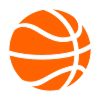
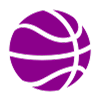
codigo corrigido e a pagina binario existe também

diff --git a/sptechers-machine v1.html b/sptechers-machine v1.html
@@ -17,16 +17,16 @@
         <div id="div_inputs">
             <span><h1 id="h1_titulo">DECIMAL</h1><img src="01.png" alt=""></span>
             <div id="div_inputs_box">
-                <label for="demo1">Digite um número decimal</label>
+                <label for="demo1" id="textoCima">Digite um número decimal</label>
                 <div id="button_check">
                     <input type="number" id="demo1">
                     <button id="btn_enviar" onclick="converterDecimal()">></button>
                 </div>
-                <label for="demo2">Octal</label>
+                <label for="demo2" id="texto1">Octal</label>
                 <div type="text" id="demo2" class="input"></div>
-                <label for="demo3">Hexadecimal</label>
+                <label for="demo3" id="texto2">Hexadecimal</label>
                 <div type="text" id="demo3" class="input"></div>
-                <label for="demo4">Binário</label>
+                <label for="demo4" id="texto3">Binário</label>
                 <div type="text" id="demo4" class="input"></div>
             </div>
         </div>
@@ -59,11 +59,13 @@
     var fundoA = "#111111";
     var fundoB = "#0059FF";
     var fundoC = "#FF0000";
+    var fundoD ="#8B008B";
 
     //letra fundo
     var letraA = "#131313"
     var letraB = "#2839F4"
     var letraC = "#FF1818"
+    var letraD = "#990099";
 
      function converterDecimal() {
          var decimal = Number(demo1.value);
@@ -78,6 +80,7 @@
          var decimal = Number(demo1.value);
          var octal = demo1.value;
          var decimal = parseInt(octal, 8);
+         
          demo2.innerHTML = decimal;
          demo3.innerHTML = decimal.toString(16);
          demo4.innerHTML = decimal.toString(2);
@@ -101,11 +104,20 @@
      }
 
      function decimalSessao(){
+
+        
+        textoCima.innerHTML="Digite um número decimal"
+        texto1.innerHTML="Octal"
+        texto2.innerHTML="Hexadecimal"
+        texto3.innerHTML="Binário"
+
         //reset outros btn
         btn_sessao2.style.backgroundImage = 'url("01.png")';
         btn_sessao2.style.backgroundColor = "transparent";
         btn_sessao3.style.backgroundImage = 'url("01.png")';
         btn_sessao3.style.backgroundColor = "transparent";
+        btn_sessao4.style.backgroundImage = 'url("01.png")';
+        btn_sessao4.style.backgroundColor = "transparent";
 
         body_color.style.background = fundoA;
         just_do_it.style.color = letraA;
@@ -134,11 +146,18 @@
 
      function hexadecimalSessao(){
 
+        textoCima.innerHTML="Digite um número Hexadecimal"
+        texto1.innerHTML="Octal"
+        texto2.innerHTML="Decimal"
+        texto3.innerHTML="Binário"
+
         //reset outros btn
         btn_sessao1.style.backgroundImage = 'url("01.png")';
         btn_sessao1.style.backgroundColor = "transparent";
         btn_sessao3.style.backgroundImage = 'url("01.png")';
         btn_sessao3.style.backgroundColor = "transparent";
+        btn_sessao4.style.backgroundImage = 'url("01.png")';
+        btn_sessao4.style.backgroundColor = "transparent";
 
         body_color.style.background = fundoB;
         just_do_it.style.color = letraB;
@@ -167,11 +186,18 @@
 
      function octalSessao(){
 
+        textoCima.innerHTML="Digite um número Octal"
+        texto1.innerHTML="Decimal"
+        texto2.innerHTML="Hexadecimal"
+        texto3.innerHTML="Binário"
+
         //reset outros btn
         btn_sessao2.style.backgroundImage = 'url("01.png")';
         btn_sessao2.style.backgroundColor = "transparent";
         btn_sessao1.style.backgroundImage = 'url("01.png")';
         btn_sessao1.style.backgroundColor = "transparent";
+        btn_sessao4.style.backgroundImage = 'url("01.png")';
+        btn_sessao4.style.backgroundColor = "transparent";
 
         body_color.style.background = fundoC;
         just_do_it.style.color = letraC;
@@ -204,23 +230,30 @@
 
      }
      function binarioSessao(){
+
+        textoCima.innerHTML="Digite um número binário"
+        texto1.innerHTML="Octal"
+        texto2.innerHTML="Decimal"
+        texto3.innerHTML="Hexadecimal"
+
         //reset outros btn
+        btn_sessao3.style.backgroundImage = 'url("01.png")';
+        btn_sessao3.style.backgroundColor = "transparent";
         btn_sessao2.style.backgroundImage = 'url("01.png")';
         btn_sessao2.style.backgroundColor = "transparent";
         btn_sessao1.style.backgroundImage = 'url("01.png")';
         btn_sessao1.style.backgroundColor = "transparent";
-        btn_sessao3.style.backgroundImage = 'url("01.png")';
-        btn_sessao3.style.backgroundColor = "transparent";
 
-        body_color.style.background = fundoC;
-        just_do_it.style.color = letraC;
-        btn_sessao3.style.backgroundImage = 'url("05.png")';
-        btn_sessao3.style.backgroundColor = "#fff";
-        button_check.innerHTML = `<input type="number" id="demo1"><button id="btn_enviar" onclick="converterOctal()">></button>`
+
+        body_color.style.background = fundoD;
+        just_do_it.style.color = letraD;
+        btn_sessao4.style.backgroundImage = 'url("02.png")';
+        btn_sessao4.style.backgroundColor = "#fff";
+        button_check.innerHTML = `<input type="number" id="demo1"><button id="btn_enviar" onclick="converterBinario()">></button>`
 
         h1_titulo.innerHTML = "Binario"
-        btn_enviar.style.backgroundColor = "#FF0000"
-        btn_enviar.style.borderColor = "#fff"
+        btn_enviar.style.backgroundColor = "purple"
+        btn_enviar.style.borderColor = "#fff"   
         btn_enviar.style.color = "#fff"
 
         demo1.style.background = "#fff"
